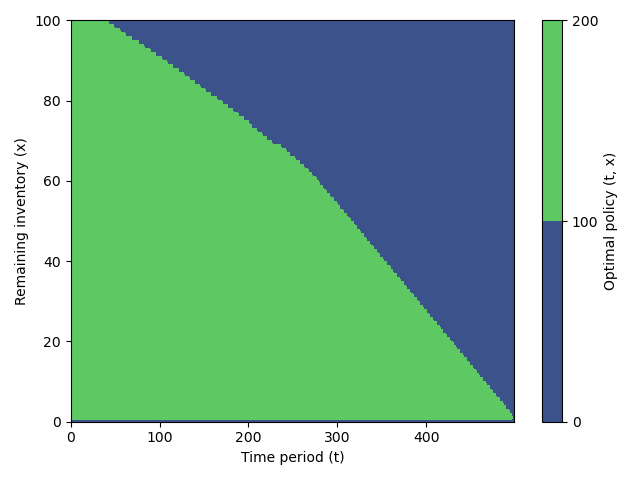
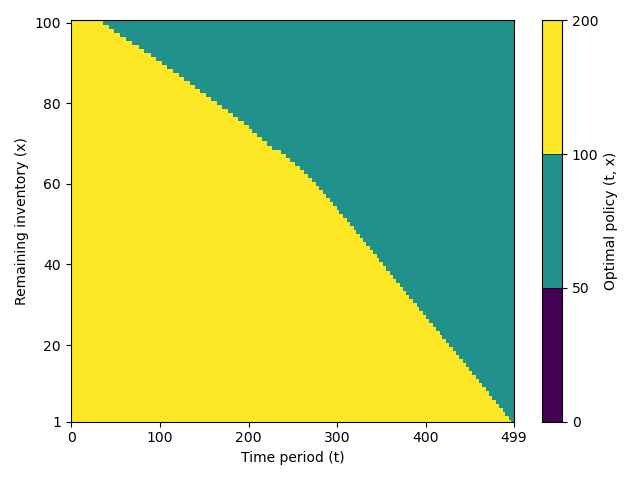
tuple version of parts D & E

diff --git a/assignment1/ass1.py b/assignment1/ass1.py
@@ -1,14 +1,21 @@
-from numpy import zeros, argmax, ndarray, meshgrid, mean
+from numpy import zeros, argmax, ndarray, meshgrid, mean, dtype
 from numpy.random import uniform
 from pandas import DataFrame
 import matplotlib.pyplot as plt
 
-def basic_inventory_dp(T_dim:int, X_dim:int, A:list, P:list
+def basic_inventory_dp(T_dim:int, X_dim:int, A:list, P:list,
+                       partDE:bool = False
                        )->tuple[float,
                                 ndarray,DataFrame,
                                 ndarray, DataFrame]:
     
-    DP = zeros((X_dim, T_dim)) # initialize with zeros 
+    if partDE:
+        # use structured array
+        DP = zeros((X_dim, T_dim),
+                   dtype = dtype([('revenue', 'f8'), ('set_price', 'i4')])) # add extra dimension to State space
+    else:
+        DP = zeros((X_dim, T_dim)) # initialize with zeros 
+    
     POLICY = zeros((X_dim,T_dim-1))
 
     # Expected immediate reward = prob of action * value of action
@@ -21,42 +28,75 @@ def basic_inventory_dp(T_dim:int, X_dim:int, A:list, P:list
     # go backwards filling the table from the ...<-498th<-499th<-500th column
     # 501st column is all just zeros (no value after time horizon)
     for t in range(T_dim-2, -1, -1):
-        assert all(DP[0,:] == 0) # make sure that when inventory 0, value always 0
+        if not partDE:
+            assert all(DP[0,:] == 0) # make sure that when inventory 0, value always 0
         # 0th row - inventory == 0 is untouched, that is the boundary condition from which
         # the divergence in values across inventory levels emerges
         for x in range(1,X_dim):
             possible_actions = []
             for ai, a in enumerate(A):
-                immediate_reward = ER[ai]
-                taken_action = P[ai] * DP[x - 1, t + 1]
-                untaken_action = (1 - P[ai]) * DP[x, t + 1]
-                possible_actions.append(immediate_reward + taken_action + untaken_action)
+                if partDE:
+                    # can only decrease or keep price constant over time, NOT increase! = a(t) >= a(t+1)
+                    # cover both options of sale & no sale
+                    # if cover only no sale option - same result
+                    if a >= DP[x,t+1]['set_price'] and a >= DP[x-1,t+1]['set_price']:
+                        immediate_reward = ER[ai]
+                        taken_action = P[ai] * DP[x - 1, t + 1]['revenue']
+                        untaken_action = (1 - P[ai]) * DP[x, t + 1]['revenue']
+                        possible_actions.append(immediate_reward + taken_action + untaken_action)
+                    else:
+                        # key piece that was missing
+                        possible_actions.append(-1) # so that not chosen but to preserve indexing
+                else:
+                    immediate_reward = ER[ai]
+                    taken_action = P[ai] * DP[x - 1, t + 1]
+                    untaken_action = (1 - P[ai]) * DP[x, t + 1]
+                    possible_actions.append(immediate_reward + taken_action + untaken_action)
             
             # best_action
             best_action = argmax(possible_actions)
-            DP[x,t] = possible_actions[best_action]
+            if partDE:
+                DP[x,t]['revenue'] = possible_actions[best_action]
+                DP[x,t]['set_price'] = A[best_action] # add taken action to state
+                POLICY[x,t] = A[best_action]
+            else:
+                DP[x,t] = possible_actions[best_action]
             POLICY[x,t] = A[best_action]
 
     # Maximum expected revenue
     print('Optimal expected revenue:', maxrev := DP[100,0])
 
-    DP_frame = DataFrame(DP, columns = [f't={t}' for t in range(T_dim)]).to_csv('Part1matrix.csv')
-    POLICY_frame = DataFrame(POLICY, columns = [f't={t}' for t in range(T_dim-1)]).to_csv('Part1policy.csv')
+    if not partDE:
+        DP_frame = DataFrame(DP, columns = [f't={t}' for t in range(T_dim)]).to_csv('Part1matrix.csv')
+        POLICY_frame = DataFrame(POLICY, columns = [f't={t}' for t in range(T_dim-1)]).to_csv('Part1policy.csv')
 
     return (maxrev,
-            DP, DP_frame,
-           POLICY, POLICY_frame)
+            DP,
+            POLICY)
 
-def plot_policy(Td:int, Xd:int, pol:ndarray,show:bool = False)->None:
+def plot_policy(Td:int, Xd:int, pol:ndarray,show:bool = False,
+                name:str = 'optimal_policy_partB.png')->None:
     X, Y = meshgrid(list(range(Td-1)),
                     list(range(Xd)))
     
-    policy_plot = plt.contourf(X,Y,pol, levels = 1)
-    plt.colorbar(policy_plot, label = 'Optimal policy (t, x)')
+    # policy_plot = plt.contour(X,Y,pol, levels = [0,50,100,200])
+    cmap = plt.get_cmap('viridis', 3)  # Define a colormap with N-1 colors
+    
+    pol[0,0] = 200 # dirty trick to allow same colorbar for both plots
+    
+    policy_plot = plt.pcolormesh(X,Y,pol,
+                                 cmap = cmap)
+    plt.colorbar(policy_plot, label = 'Optimal policy (t, x)', 
+                 values = [50,100,200], boundaries = [0,50,100,200],
+                 drawedges = True, cmap = cmap)
     plt.xlabel('Time period (t)')
     plt.ylabel('Remaining inventory (x)')
+    # start from one
+    plt.yticks([1]+[tick for tick in range(0,101,20)][1:])
+    plt.xticks([0,100,200,300,400,499])
+    plt.ylim(bottom = 1)
     plt.tight_layout()
-    plt.savefig('optimal_policy_partB.png')
+    plt.savefig(name)
     if show == True:
         plt.show()
     plt.close()
@@ -80,7 +120,11 @@ def simulate(Td:int, Xd:int, A:list, P:list, policy:ndarray,
                     revenue += action
 
         maxrewards.append(revenue)
-    plt.hist(maxrewards, bins = 30)
+
+    print('Mean expected revenue', meanrev := mean(maxrewards))
+
+    plt.hist(maxrewards, bins = 50)
+    plt.axvline(x= meanrev, color = 'r', linestyle= "--") # mean expected revenue
     plt.ylabel('Frequency')
     plt.xlabel('Revenue obtained using optimal policy')
     plt.tight_layout()
@@ -88,7 +132,6 @@ def simulate(Td:int, Xd:int, A:list, P:list, policy:ndarray,
     if show == True:
         plt.show()
     plt.close()
-    print('Mean expected revenue', meanrev := mean(maxrewards))
     return meanrev
 
 if __name__ == '__main__':
@@ -106,6 +149,16 @@ if __name__ == '__main__':
     P = [0.8, 0.5, 0.1]
 
     # AB parts of the assignment
-    MAXREV, rewards, rDF, policy, pDF = basic_inventory_dp(T_dim, X_dim, A, P)
+    MAXREV, rewards, policy = basic_inventory_dp(T_dim, X_dim, A, P)
     plot_policy(T_dim, X_dim, policy)
     avg_reward = simulate(T_dim, X_dim, A, P, policy)
+
+    # Part D, E
+    # State (Xt): (Inventory left at time t, PRICE at time t) TUPLE
+    
+
+    # Actions (A(Price t+1)): Change price to a E {50, 100, 200} & a >= Price t+1 
+    # at every time point will include only actions with higher price than price at X(t+1)
+    mr, rew, pol = basic_inventory_dp(T_dim, X_dim, A, P, partDE=True)
+    plot_policy(T_dim, X_dim, pol, name = 'optimal_policy_partD.png')
+    
